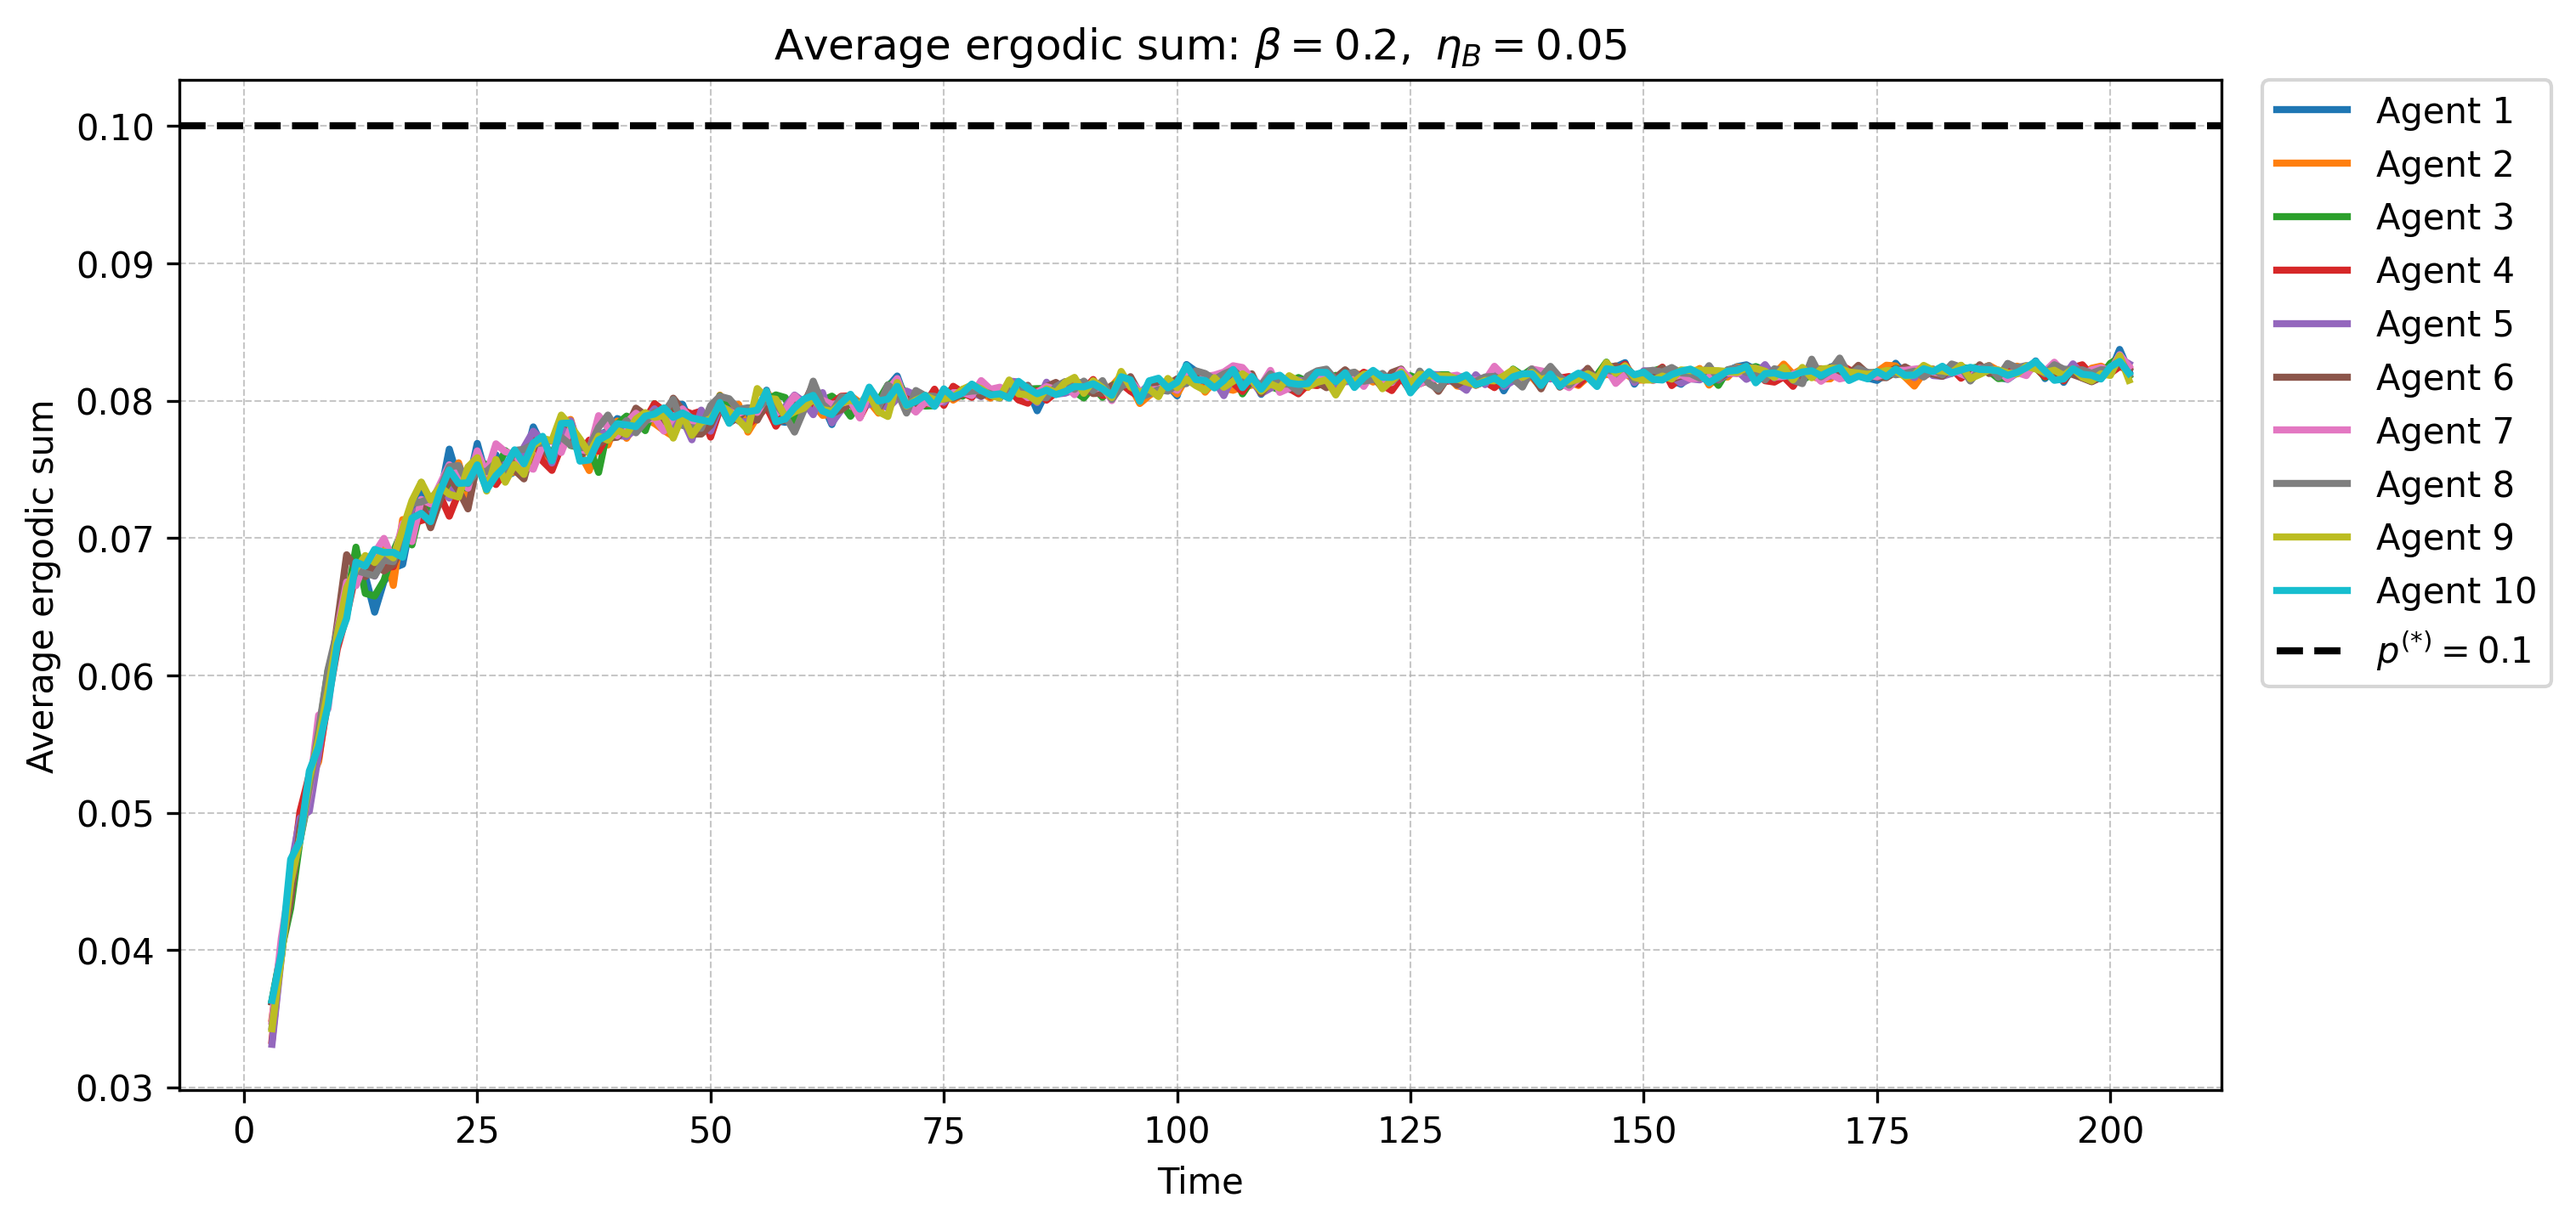
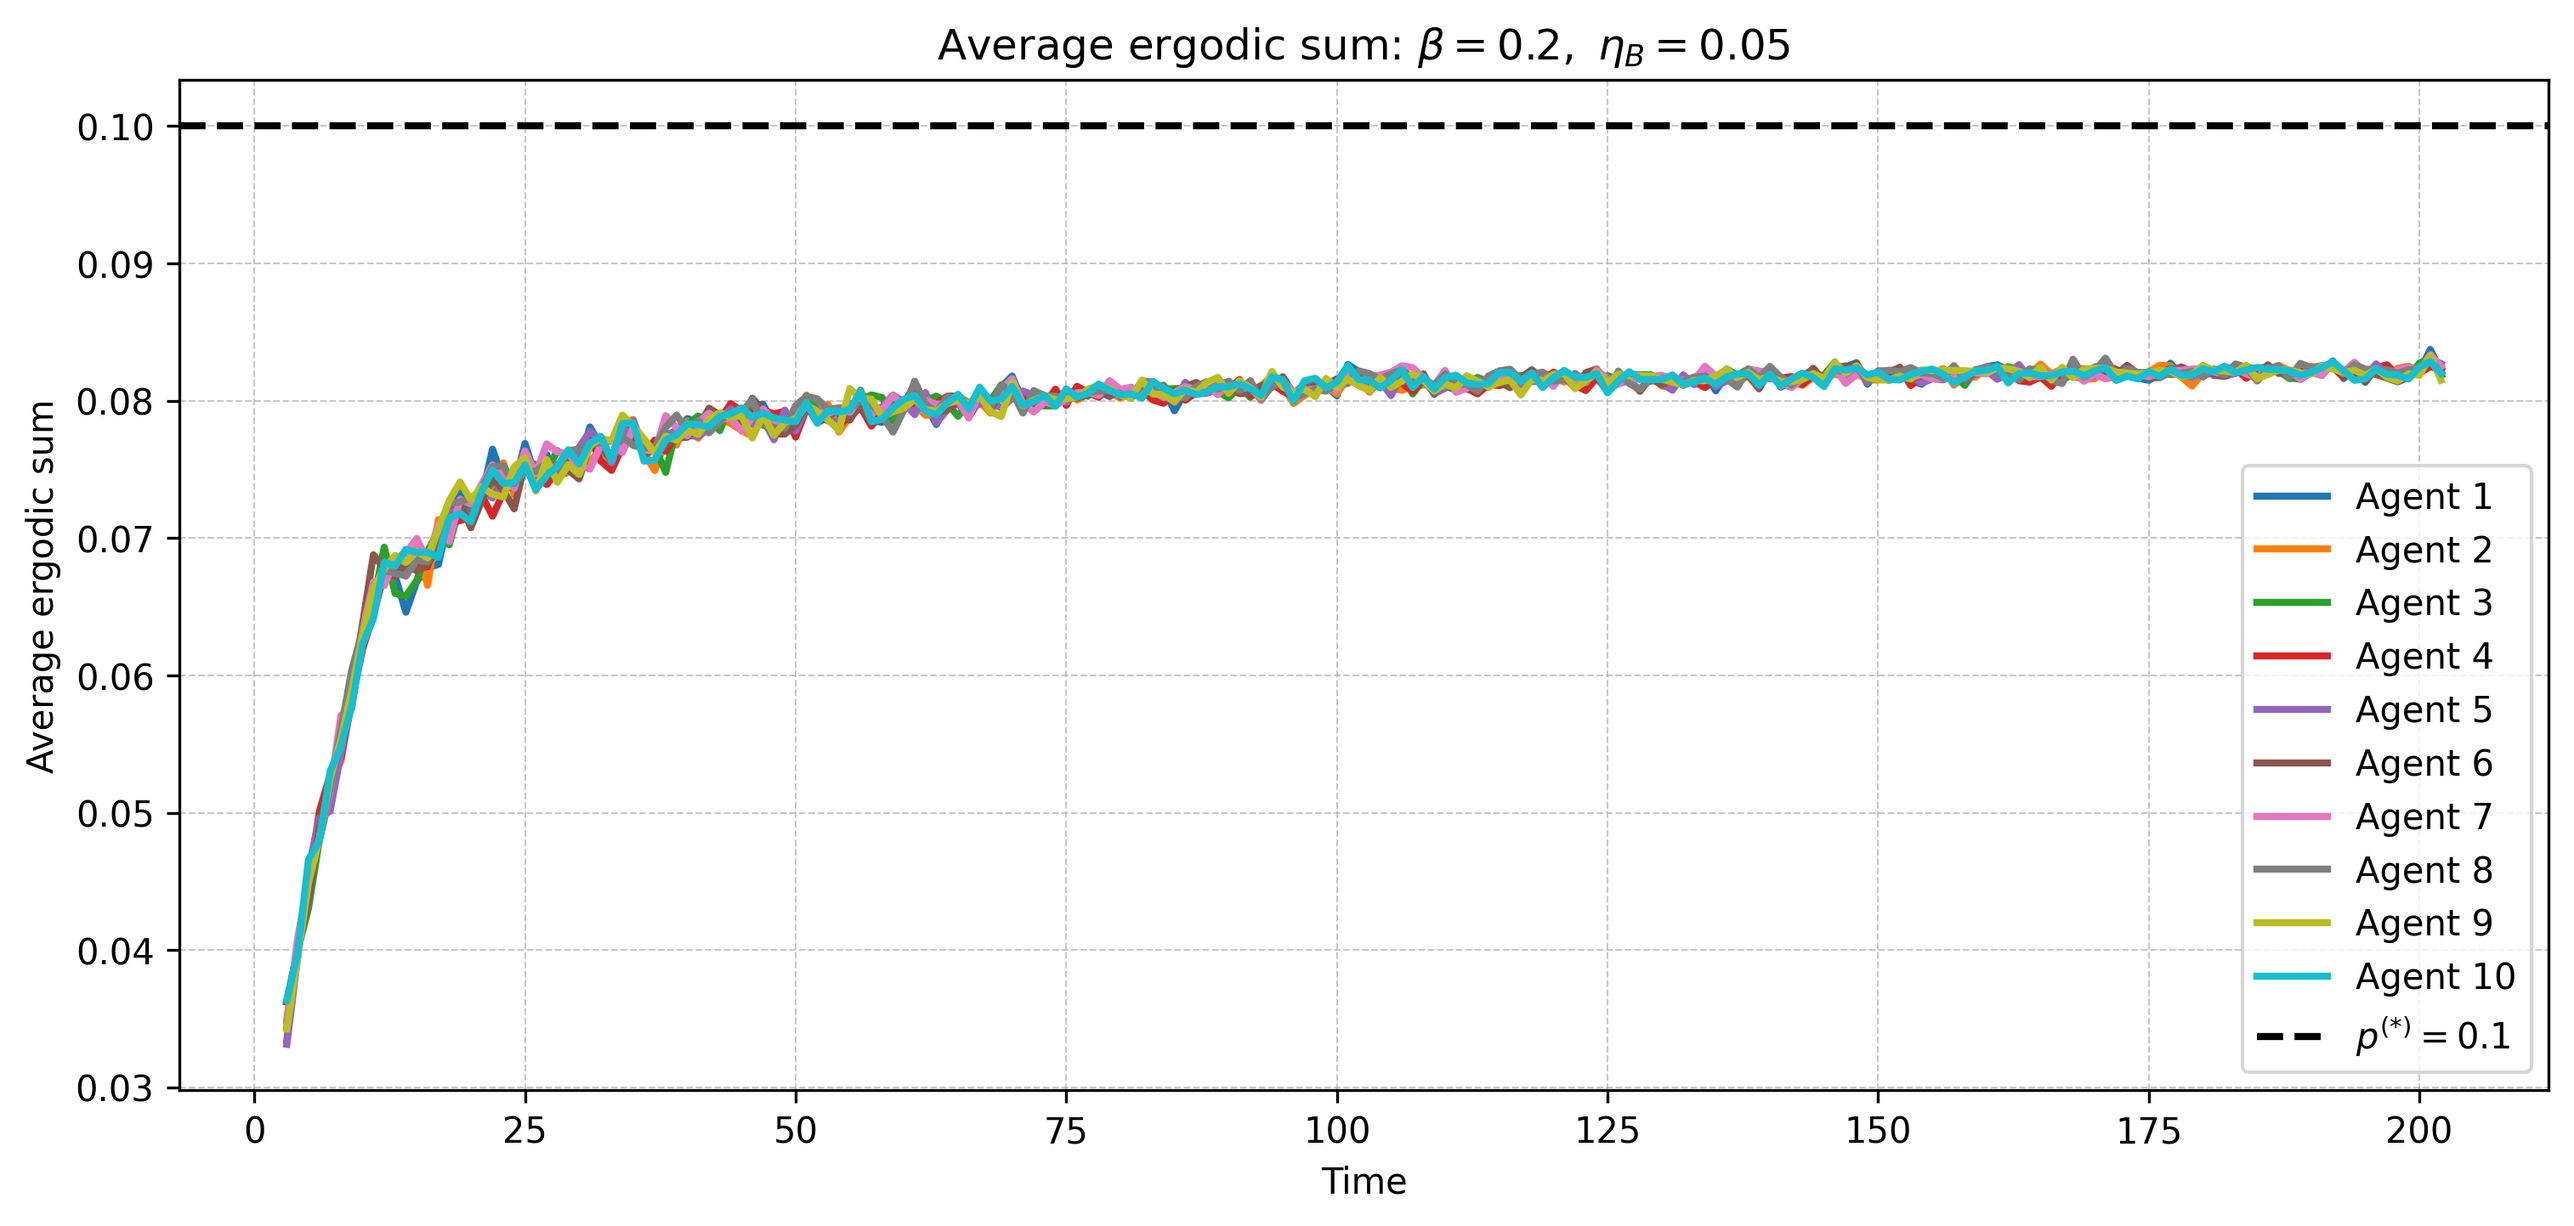
changed legend locations in plots

diff --git a/src/simulations/test.py b/src/simulations/test.py
@@ -2,7 +2,7 @@ import numpy as np
 import matplotlib.pyplot as plt 
 Time = 200
 N=10
-all_means = np.load("data/all_means_N10_M5_nonhomo_bot.npy")
+all_means = np.load("data/all_means_N10_M5_homo_hub_spoke.npy")
 
 time = np.arange(3, Time + 3)
 
@@ -24,9 +24,9 @@ for node in range(N):
 #    label=r"$p^{(*)}=0.1$"
 #)
 plt.legend(
-    bbox_to_anchor=(1.02, 1),
-    loc="upper left",
-    borderaxespad=0.
+    loc="lower right",
+    fontsize=10,
+    frameon=True
 )
 
 plt.tight_layout()
@@ -35,12 +35,13 @@ plt.xlabel("Time")
 plt.ylabel("Average ergodic sum")
 plt.grid(True, linestyle="--", linewidth=0.5, alpha=0.7)
 
-plt.title(
-    rf"Average ergodic sum: $\beta = 0.2,\ \eta_B = 0.5$"
-)
+#plt.title(
+#    rf"Average ergodic sum: $\beta = 0.2,\ \eta_B = 0.05$"
+
+#)
 
 plt.savefig(
-    "figures/all_means_N10_M5_nonhomo_bot.png",
+    "figures/all_means_N10_M5_homo_hub_spoke.png",
     dpi=300,
     bbox_inches="tight"
 )

diff --git a/src/simulations/memory_comparison.py b/src/simulations/memory_comparison.py
@@ -49,8 +49,11 @@ plt.xlabel("Time")
 plt.ylabel("Average ergodic sum")
 plt.grid(True, linestyle="--", linewidth=0.5, alpha=0.7)
 plt.legend(
-    bbox_to_anchor=(1.02, 1),
-    loc="upper left"
+    loc="lower center",
+    bbox_to_anchor=(0.5, 1.02),
+    ncol=3,
+    fontsize=8,
+    frameon=True
 )
 
 plt.tight_layout()
